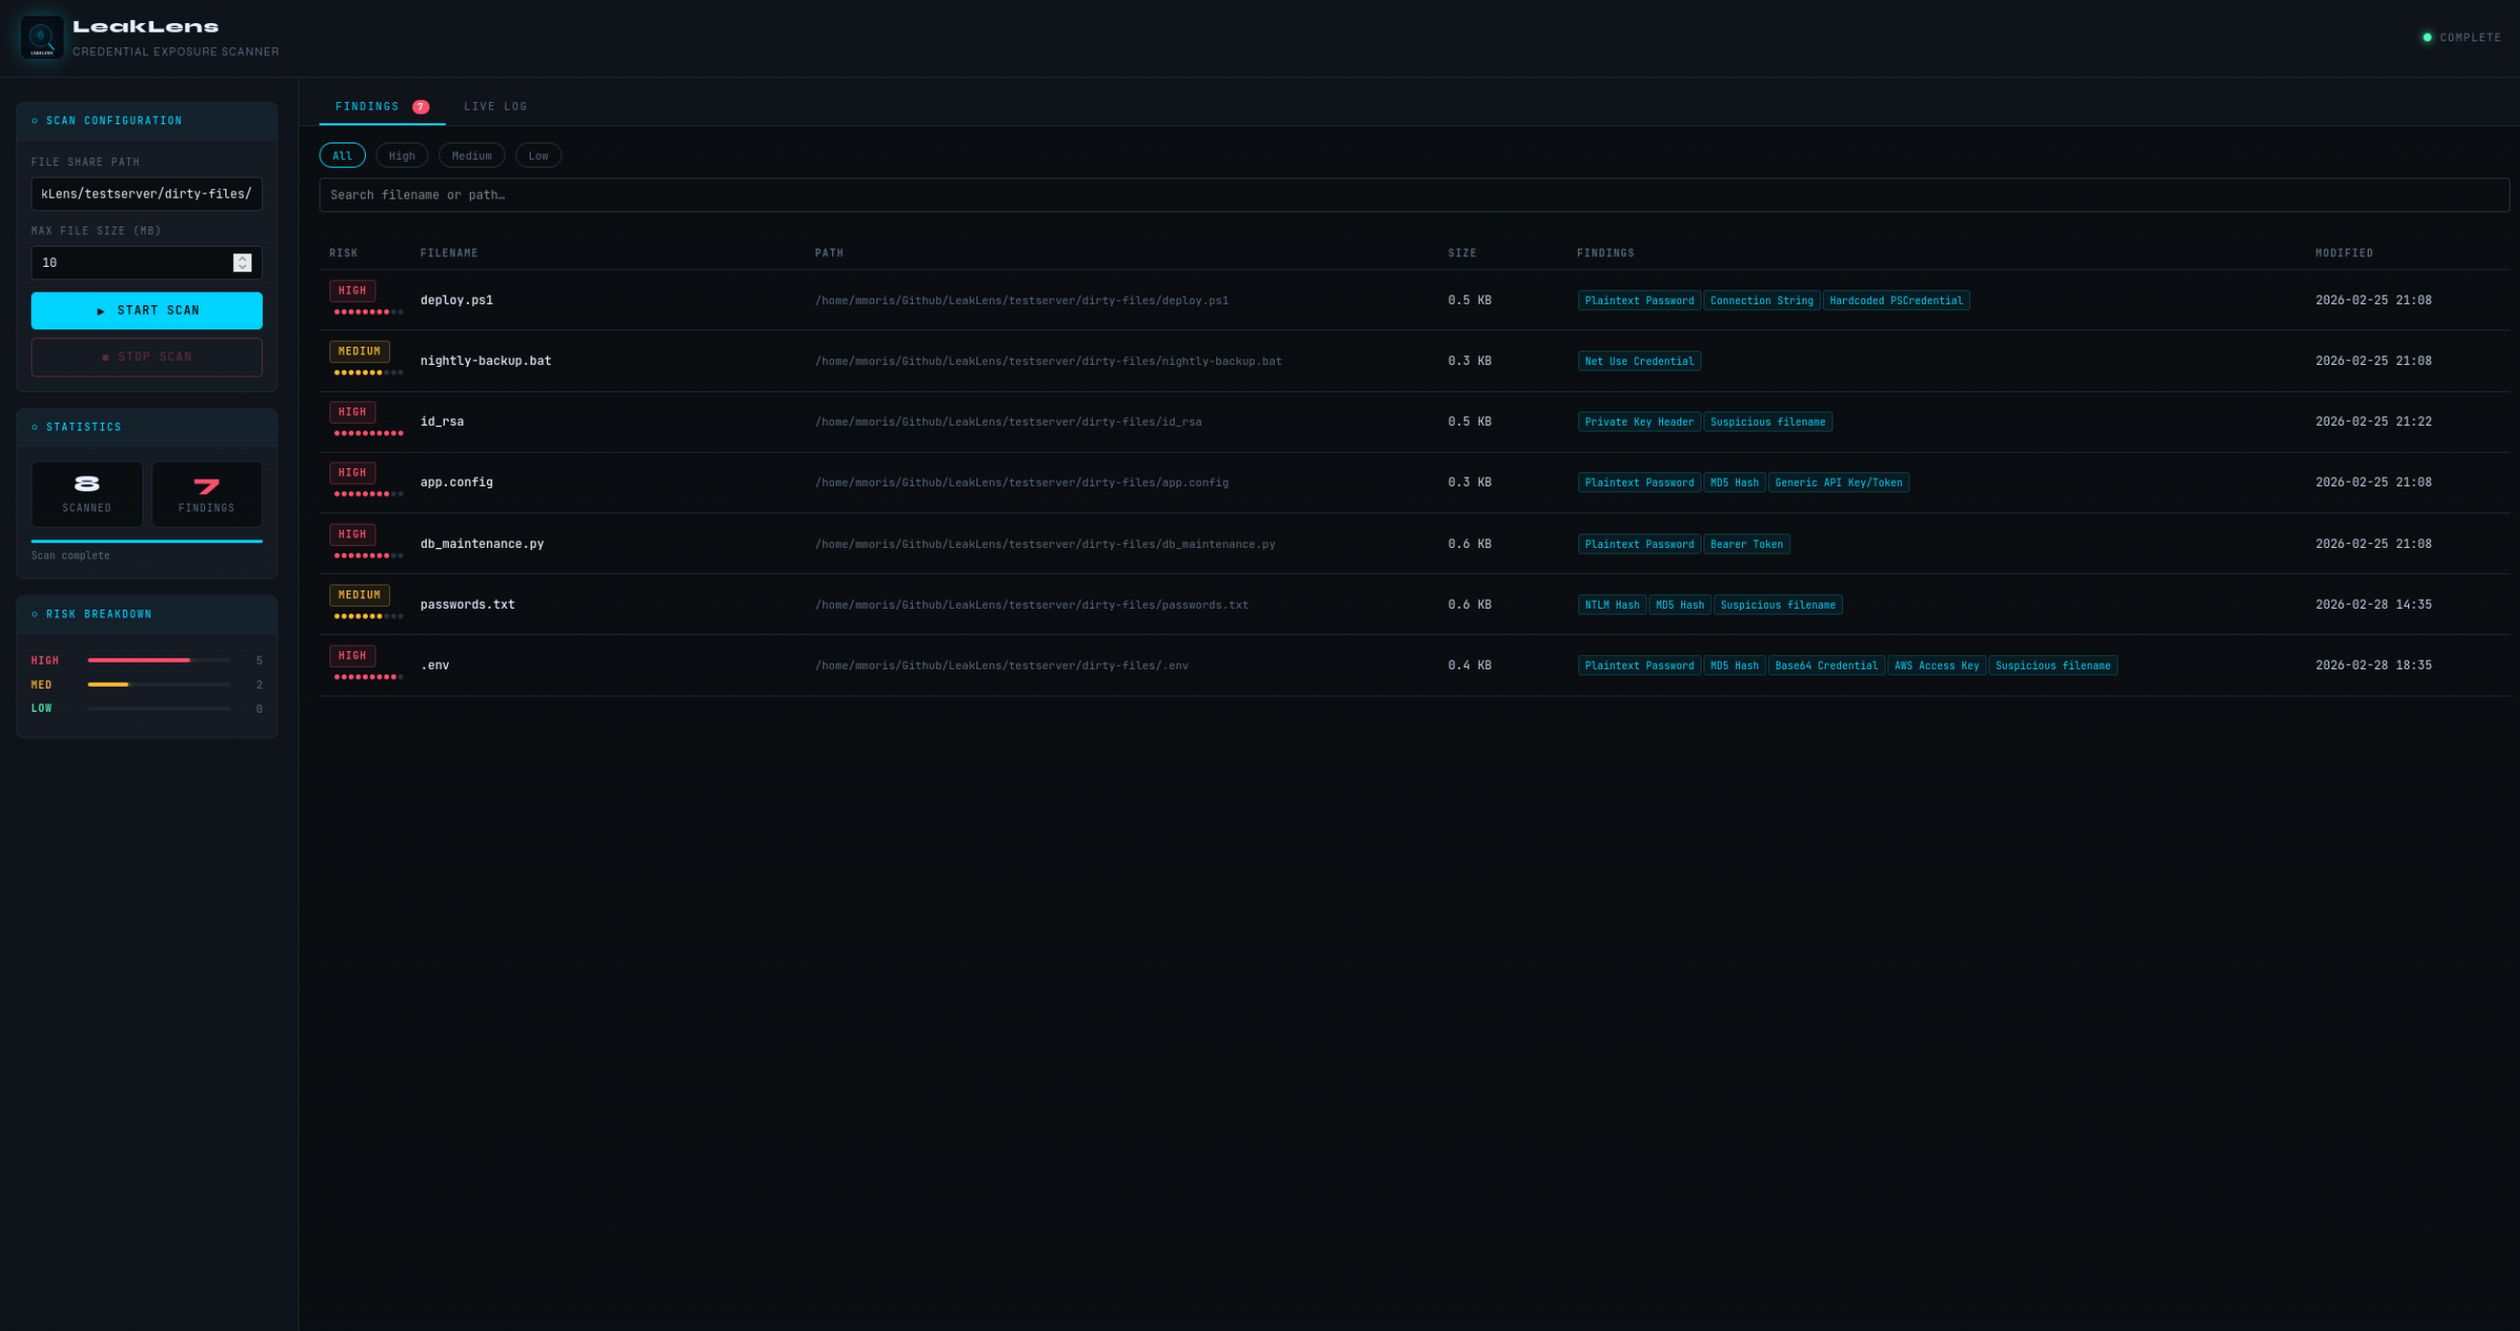
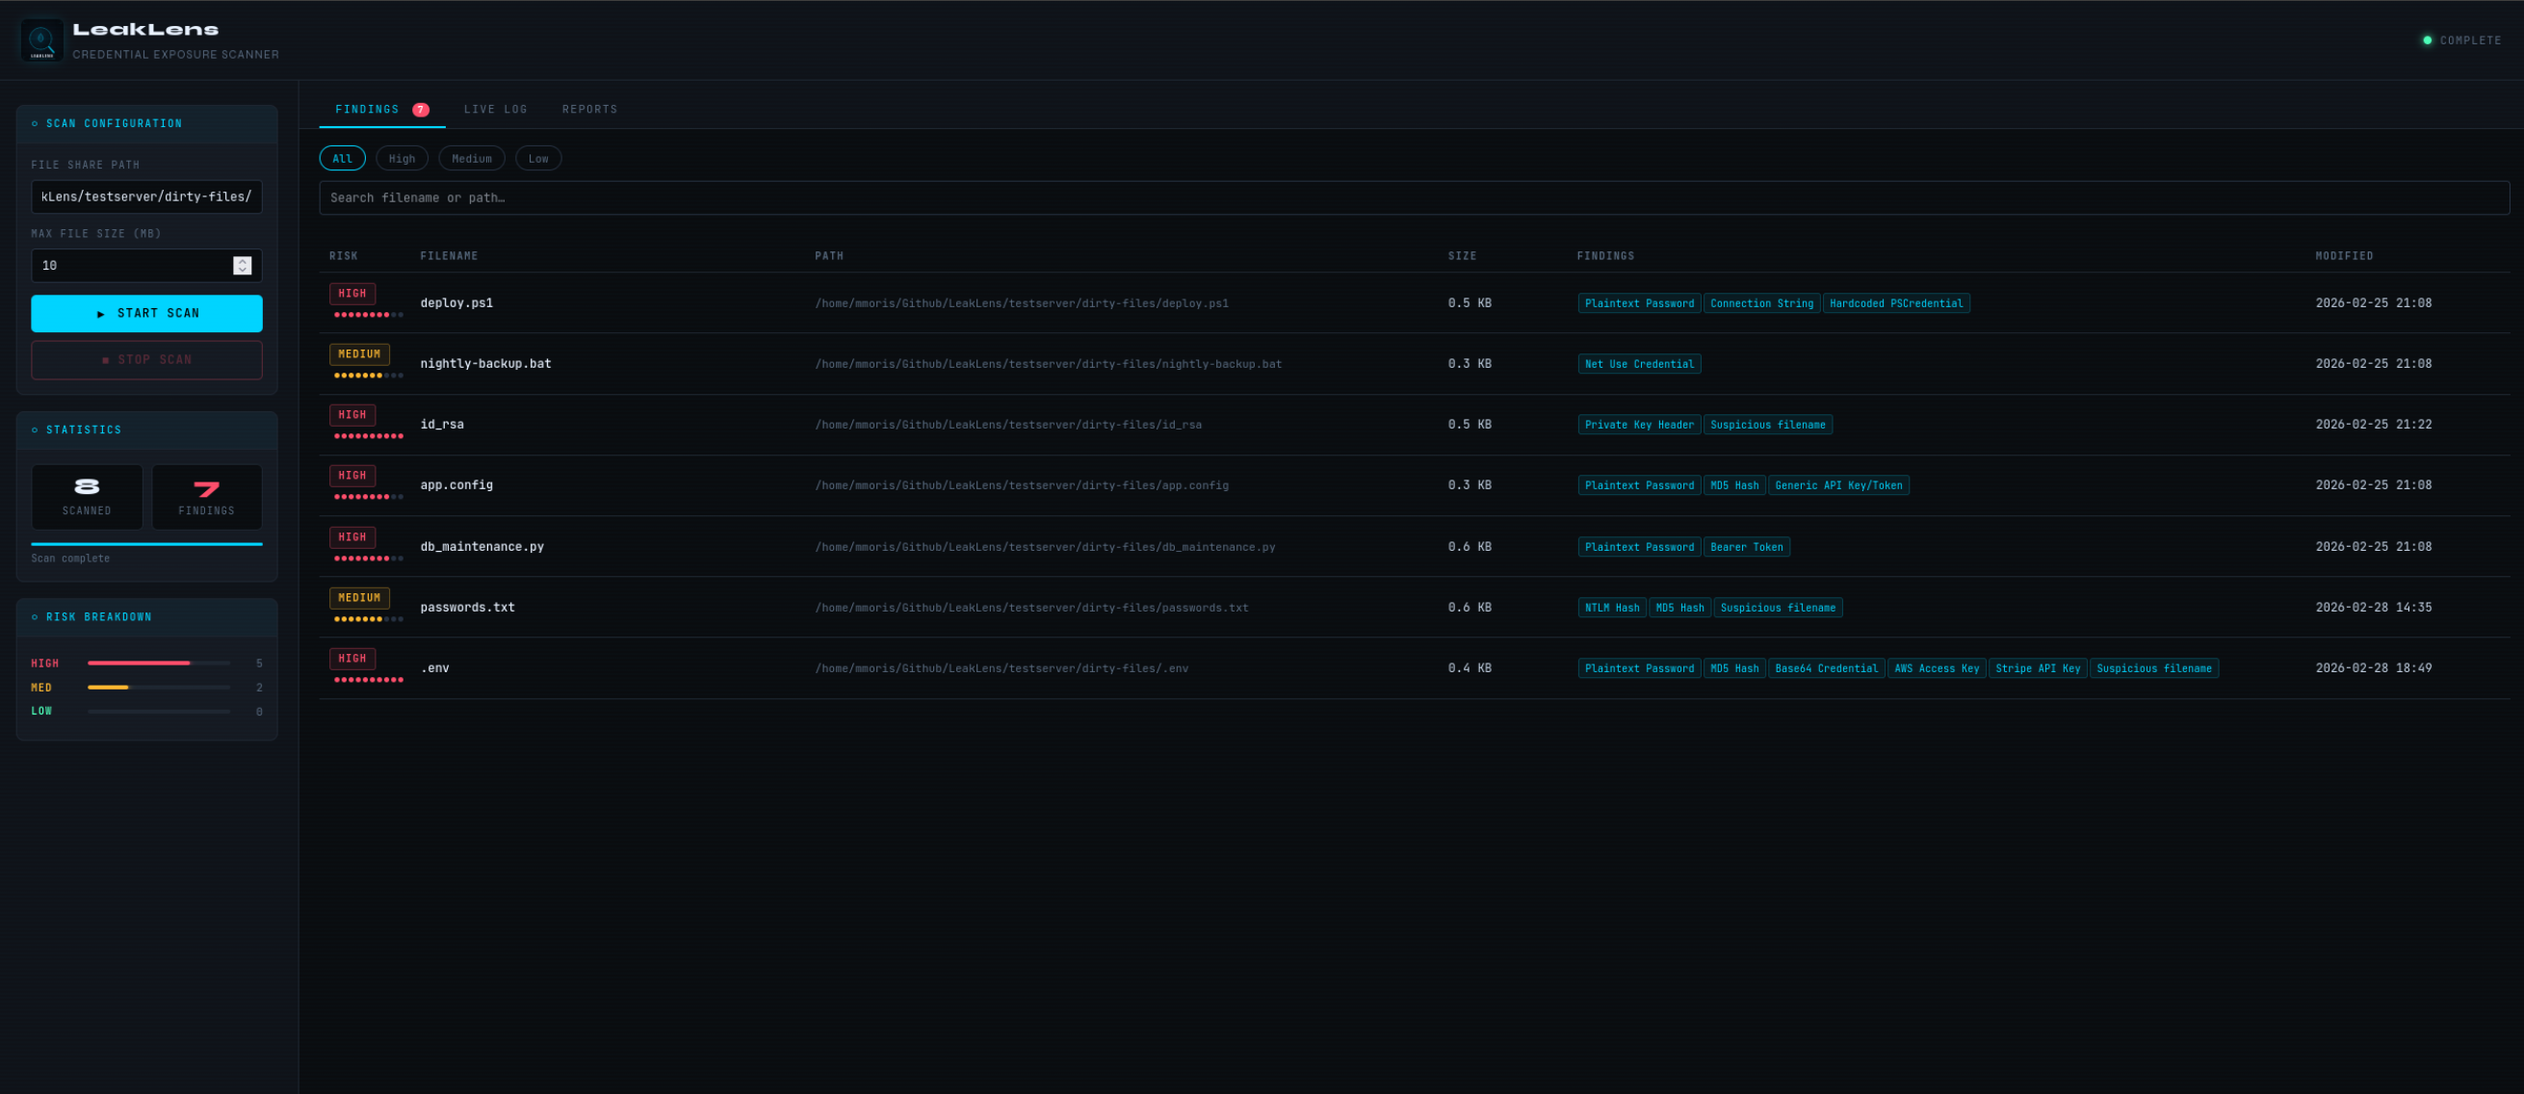
Added reports feature
Old reports can now be viewed
Added findings in evidence

diff --git a/frontend/index.html b/frontend/index.html
@@ -713,6 +713,73 @@
       color: var(--text-dim);
     }
 
+    /* ── Match evidence ── */
+    .evidence-item { margin-bottom: 12px; }
+    .evidence-header {
+      display: flex;
+      align-items: center;
+      gap: 8px;
+      margin-bottom: 5px;
+    }
+    .evidence-line {
+      font-size: 10px;
+      color: var(--text-dim);
+      flex-shrink: 0;
+    }
+    .evidence-snippet {
+      display: block;
+      background: var(--bg);
+      border: 1px solid var(--border);
+      border-radius: 4px;
+      padding: 6px 10px;
+      font-family: var(--mono);
+      font-size: 11px;
+      color: var(--text-bright);
+      word-break: break-all;
+      white-space: pre-wrap;
+      overflow-x: auto;
+      line-height: 1.5;
+    }
+
+    /* ── Reports tab ── */
+    .reports-list { padding: 16px 20px; }
+    .report-row {
+      display: flex;
+      align-items: center;
+      gap: 12px;
+      padding: 10px 14px;
+      border: 1px solid var(--border);
+      border-radius: 6px;
+      margin-bottom: 8px;
+      cursor: pointer;
+      transition: background 0.15s, border-color 0.15s;
+      font-size: 12px;
+    }
+    .report-row:hover {
+      background: rgba(0,212,255,0.04);
+      border-color: var(--border2);
+    }
+    .report-name { flex: 1; color: var(--text-bright); word-break: break-all; }
+    .report-meta { color: var(--text-dim); font-size: 11px; white-space: nowrap; }
+    .reports-toolbar {
+      display: flex;
+      align-items: center;
+      gap: 10px;
+      padding: 12px 20px 4px;
+    }
+    .btn-sm {
+      padding: 5px 14px;
+      border-radius: 4px;
+      border: 1px solid var(--border2);
+      background: transparent;
+      color: var(--text-dim);
+      font-family: var(--mono);
+      font-size: 11px;
+      cursor: pointer;
+      transition: all 0.2s;
+    }
+    .btn-sm:hover { color: var(--accent); border-color: var(--accent2); }
+
     /* ── Scrollbar ── */
     ::-webkit-scrollbar { width: 6px; }
     ::-webkit-scrollbar-track { background: transparent; }
@@ -832,10 +899,11 @@
 
     <!-- Tabs -->
     <div class="tabs">
-      <div class="tab active" onclick="switchTab('findings')">
+      <div class="tab active" data-tab="findings" onclick="switchTab('findings')">
         Findings <span class="tab-badge" id="findingsBadge" style="display:none">0</span>
       </div>
-      <div class="tab" onclick="switchTab('log')">Live Log</div>
+      <div class="tab" data-tab="log" onclick="switchTab('log')">Live Log</div>
+      <div class="tab" data-tab="reports" onclick="switchTab('reports')">Reports</div>
     </div>
 
     <!-- Findings tab -->
@@ -875,6 +943,19 @@
       <div class="log-wrap" id="logWrap"></div>
     </div>
 
+    <!-- Reports tab -->
+    <div class="tab-panel" id="tab-reports">
+      <div class="reports-toolbar">
+        <button class="btn-sm" onclick="loadReports()">↻ Refresh</button>
+      </div>
+      <div class="reports-list" id="reportsContent">
+        <div class="empty-state">
+          <div class="icon">📋</div>
+          <p>No reports yet. Run a scan to generate a report.</p>
+        </div>
+      </div>
+    </div>
+
   </main>
 </div>
 
@@ -904,11 +985,12 @@
   // ── Tab switching ──────────────────────────────────────────────────────────
   function switchTab(name) {
     document.querySelectorAll('.tab').forEach(t => {
-      t.classList.toggle('active',
-        t.textContent.trim().startsWith(name === 'findings' ? 'F' : 'L'));
+      t.classList.toggle('active', t.dataset.tab === name);
     });
     document.querySelectorAll('.tab-panel').forEach(p => p.classList.remove('active'));
-    document.getElementById('tab-' + name).classList.add('active');
+    const panel = document.getElementById('tab-' + name);
+    if (panel) panel.classList.add('active');
+    if (name === 'reports') loadReports();
   }
 
   // ── Filter ─────────────────────────────────────────────────────────────────
@@ -1207,10 +1289,21 @@
 
   // ── Detail drawer ──────────────────────────────────────────────────────────
   function openDrawer(f) {
-    const list = f.findingsList || (f.findings ? f.findings.split(' | ') : []);
-    const tags = list.map(x => `<span class="finding-tag">${escHtml(x)}</span>`).join(' ');
-    const conf = f.confidence || 0;
+    const conf  = f.confidence || 0;
     const isSmb = !!f.smbShare;
+
+    // Build match evidence section from findingsDetail (with line/snippet)
+    const detail = f.findingsDetail || [];
+    const evidenceHtml = detail.map(d => {
+      const hasCtx = d.matchSnippet;
+      return `<div class="evidence-item">
+        <div class="evidence-header">
+          <span class="finding-tag">${escHtml(d.name)}</span>
+          ${hasCtx ? `<span class="evidence-line">Line ${d.matchLine}</span>` : ''}
+        </div>
+        ${hasCtx ? `<code class="evidence-snippet">${escHtml(d.matchSnippet)}</code>` : ''}
+      </div>`;
+    }).join('');
 
     const smbSection = isSmb ? `
       <div class="drawer-section">
@@ -1250,8 +1343,8 @@
       ${smbSection}
 
       <div class="drawer-section">
-        <h3>Detected Patterns</h3>
-        ${tags}
+        <h3>Match Evidence</h3>
+        ${evidenceHtml || '<p style="color:var(--text-dim);font-size:12px;">No content patterns — flagged by file type or name.</p>'}
       </div>
 
       <div class="drawer-section">
@@ -1292,6 +1385,56 @@
     if (f.hashOnly)
       return `Hash strings detected — likely integrity checksums. Verify these are not credential hashes before dismissing.${smbSuffix}`;
     return `Review this file and remove any embedded credentials. Use environment variables, Azure Key Vault, or other secrets management solutions.${smbSuffix}`;
+  }
+
+  // ── Reports ────────────────────────────────────────────────────────────────
+  async function loadReports() {
+    const container = document.getElementById('reportsContent');
+    container.innerHTML = '<p style="color:var(--text-dim);padding:20px 0;">Loading…</p>';
+    try {
+      const res = await fetch(`${API}/reports`);
+      const reports = await res.json();
+      if (!Array.isArray(reports) || reports.length === 0) {
+        container.innerHTML = '<div class="empty-state"><div class="icon">📋</div><p>No reports yet. Run a scan to generate a report.</p></div>';
+        return;
+      }
+      container.innerHTML = reports.map(r => {
+        const date   = new Date(r.mtime * 1000).toLocaleString();
+        const sizeKB = (r.size / 1024).toFixed(1);
+        return `<div class="report-row" onclick="openReport('${escHtml(r.name)}')">
+          <span class="report-name">${escHtml(r.name)}</span>
+          <span class="report-meta">${sizeKB} KB</span>
+          <span class="report-meta">${escHtml(date)}</span>
+        </div>`;
+      }).join('');
+    } catch (e) {
+      container.innerHTML = `<p style="color:var(--high);padding:20px 0;">Error loading reports: ${escHtml(e.message)}</p>`;
+    }
+  }
+
+  async function openReport(name) {
+    try {
+      const res = await fetch(`${API}/reports/${encodeURIComponent(name)}`);
+      if (!res.ok) { alert('Could not load report.'); return; }
+      const report = await res.json();
+
+      findings   = report.findings || [];
+      riskCounts = { HIGH: 0, MEDIUM: 0, LOW: 0 };
+      findings.forEach(f => { riskCounts[f.riskLevel] = (riskCounts[f.riskLevel] || 0) + 1; });
+
+      document.getElementById('statScanned').textContent  = report.scanned || 0;
+      document.getElementById('statFindings').textContent = findings.length;
+      document.getElementById('statFindings').classList.toggle('has-hits', findings.length > 0);
+      const badge = document.getElementById('findingsBadge');
+      badge.style.display = findings.length ? 'inline' : 'none';
+      badge.textContent   = findings.length;
+      updateRiskBars();
+      switchTab('findings');
+      renderTable();
+      appendLog(`Loaded report: ${name} — ${findings.length} findings`, false);
+    } catch (e) {
+      alert('Could not load report: ' + e.message);
+    }
   }
 
   function escHtml(s) {

diff --git a/scanner/engine.py b/scanner/engine.py
@@ -134,10 +134,12 @@ def is_suppressed(path: str, pattern_ids: list, suppressions: dict, root: str) -
 def scan_content(content: str, path: str) -> list:
     """
     Match all content patterns against the file text.
-    Returns a list of matched pattern dicts (id, name, confidence, risk).
+    Returns a list of matched pattern dicts (id, name, confidence, risk,
+    matchLine, matchSnippet).
     Applies confidence adjustments for docs paths and placeholder values.
     """
     in_docs = is_docs_path(path)
+    lines = content.split('\n')
     matched = []
 
     for pattern in CONTENT_PATTERNS:
@@ -159,11 +161,18 @@ def scan_content(content: str, path: str) -> list:
         if in_docs:
             conf = max(1, conf - 3)
 
+        # Extract match location and the full line it appeared on
+        line_num = content[:m.start()].count('\n') + 1
+        raw_line = lines[line_num - 1].strip() if line_num <= len(lines) else m.group(0)
+        snippet = raw_line[:120] + ('…' if len(raw_line) > 120 else '')
+
         matched.append({
             "id": pattern["id"],
             "name": pattern["name"],
             "confidence": conf,
             "risk": get_risk_level(conf),
+            "matchLine": line_num,
+            "matchSnippet": snippet,
         })
 
     return matched
@@ -433,7 +442,7 @@ def scan_path(
 
             if binary_risk:
                 pass
-            elif ext in TARGET_EXTENSIONS:
+            elif ext in TARGET_EXTENSIONS or (risky_name and ext == ""):
                 if size_bytes <= max_size:
                     content = read_smb_file(smb_path, max_size)
                     if content:

diff --git a/scanner/patterns.py b/scanner/patterns.py
@@ -173,6 +173,30 @@ CONTENT_PATTERNS = [
         "confidence": 8,
         "risk": "HIGH",
     },
+    {
+        "id": "stripe_key",
+        "name": "Stripe API Key",
+        # sk_live_ = production secret key, sk_test_ = test secret key
+        "regex": r'\bsk_(live|test)_[A-Za-z0-9]{24,}\b',
+        "confidence": 10,
+        "risk": "HIGH",
+    },
+    {
+        "id": "slack_token",
+        "name": "Slack Token",
+        # xoxb = bot token, xoxa = app token, xoxp = user token, xoxs = workspace token
+        "regex": r'\bxox[abps]-[0-9A-Za-z-]{10,}\b',
+        "confidence": 10,
+        "risk": "HIGH",
+    },
+    {
+        "id": "sendgrid_key",
+        "name": "SendGrid API Key",
+        # SendGrid keys: SG. + ~22 base64url chars + . + ~43 base64url chars
+        "regex": r'\bSG\.[A-Za-z0-9_-]{20,}\.[A-Za-z0-9_-]{40,}\b',
+        "confidence": 10,
+        "risk": "HIGH",
+    },
 ]
 
 # File extensions that are flagged regardless of content

diff --git a/leaklens.py b/leaklens.py
@@ -106,7 +106,6 @@ def scan():
         headers={
             "Cache-Control": "no-cache",
             "X-Accel-Buffering": "no",
-            "Access-Control-Allow-Origin": "*",
         },
     )
 

diff --git a/README.md b/README.md
@@ -19,8 +19,9 @@ Scans Windows file shares (and local paths) for exposed credentials:
 - Scans text files for passwords, hashes, keys, tokens, and connection strings
 - Flags sensitive file types (`.pfx`, `.ppk`, `.kdbx`, `.pem`, ...) and risky filenames (`id_rsa`, `credentials`, `.env`, ...)
 - Scores every finding 1–10 so you spend time on what matters
+- Shows the **exact matched line and line number** for every content finding — no need to open the file
 - Streams results to a browser UI in real time
-- Saves a timestamped JSON report of every scan
+- Saves a timestamped JSON report of every scan, browseable in the **Reports tab**
 
 ---
 
@@ -66,7 +67,8 @@ Opens at **http://localhost:3000**.
 3. Click **Discover Shares** to enumerate all visible shares on a server
 4. Set the max file size to scan (default: 10 MB)
 5. Click **Start Scan**
-6. Findings stream in as they are found — click any row for detail and remediation advice
+6. Findings stream in as they are found — click any row to see the **matched line**, file metadata, and remediation advice
+7. Open the **Reports** tab at any time to reload a previous scan
 
 ---
 
@@ -80,8 +82,13 @@ Opens at **http://localhost:3000**.
 | Connection String | Embedded passwords in connection strings | 8/10 |
 | NTLM / LM Hash | `lm_hash:ntlm_hash` pairs | 7/10 |
 | Bcrypt Hash | `$2a$`, `$2b$`, `$2y$` | 7/10 |
-| Base64 Credential | Base64 values next to credential keywords | 7/10 |
+| Base64 Credential | Base64 values next to credential keywords | 5/10 |
 | AWS Access Key | `AKIA…` | 9/10 |
+| GitHub / GitLab PAT | `ghp_…`, `gho_…`, `glpat-…` | 10/10 |
+| Stripe API Key | `sk_live_…`, `sk_test_…` | 10/10 |
+| Slack Token | `xoxb-…`, `xoxp-…` | 10/10 |
+| SendGrid API Key | `SG.xxxx.xxxx` | 10/10 |
+| Azure Client Secret / Storage Key | Azure credential formats | 7–8/10 |
 | API Key / Bearer Token | Key assignments and `Bearer` tokens | 6/10 |
 | Private Key Header | `-----BEGIN … PRIVATE KEY-----` | 10/10 |
 | Net Use Credential | `net use /user:` commands | 7/10 |
@@ -137,6 +144,30 @@ checksums/**
 ```
 
 Pattern IDs are listed in `scanner/patterns.py`.
+
+---
+
+## Match evidence
+
+Every content finding includes the exact line that triggered the match. The detail drawer shows each detected pattern alongside its line number and the full matched line, so you can confirm the finding without opening the file:
+
+```
+Plaintext Password    Line 4
+  DB_PASSWORD=Tr0ub4dor&3
+
+AWS Access Key        Line 7
+  AWS_ACCESS_KEY_ID=AKIAIOSFODNN7EXAMPLE
+```
+
+Lines are truncated at 120 characters. Findings flagged only by file type or filename (e.g. `.pfx`, `id_rsa`) show a note in place of a snippet.
+
+---
+
+## Scan reports
+
+Every completed scan is saved as a timestamped JSON file in the `reports/` directory. The **Reports** tab in the UI lists all saved reports — click any entry to reload its findings into the main view, complete with filtering, search, and the detail drawer.
+
+Reports are also available directly via `GET /api/reports` and `GET /api/reports/<filename>`.
 
 ---
 
@@ -202,7 +233,7 @@ Expected findings across the 8 test files:
 | `deploy.ps1` | Plaintext Password, Connection String, PowerShell SecureString, Hardcoded PSCredential |
 | `app.config` | Plaintext Password, Generic API Key/Token |
 | `passwords.txt` | NTLM Hash |
-| `.env` | AWS Access Key, Plaintext Password, Base64 Credential |
+| `.env` | AWS Access Key, Plaintext Password, Base64 Credential, Stripe API Key |
 | `nightly-backup.bat` | Net Use Credential |
 | `db_maintenance.py` | Plaintext Password, Bearer Token |
 | `id_rsa` | Private Key Header |
@@ -233,6 +264,13 @@ LeakLens/
 ## How it works
 
 `leaklens.py` starts a Flask server that serves the frontend and exposes `POST /api/scan`. When a scan starts, a background thread runs `scanner/engine.py`, which walks the target path — local or SMB — matches patterns, applies confidence scoring and suppression rules, and yields findings as JSON. The browser reads these as **Server-Sent Events** streamed directly from the POST response body.
+
+---
+
+## Images
+
+![LeakLens Evidence](Images/Evidence.png)
+![LeakLens Reports](Images/Reports.png)
 
 ---
 
